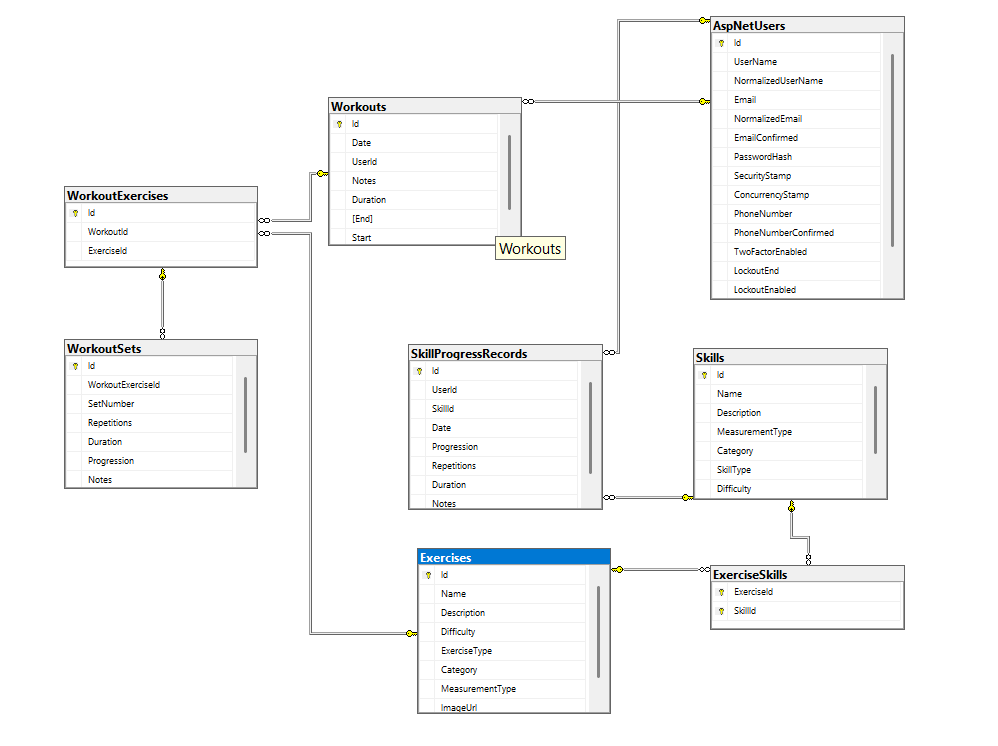
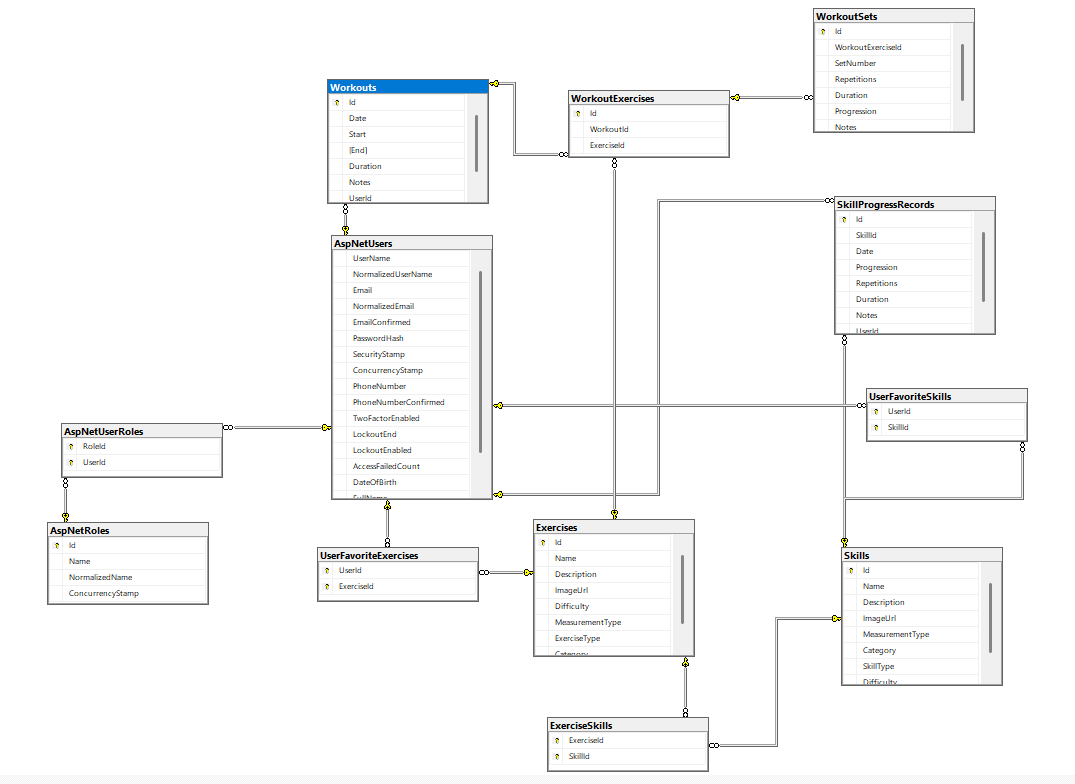
Uptaded README file

diff --git a/README.md b/README.md
@@ -1,147 +1,138 @@
-# 🚀 Calisthenics Skill Tracker
+🚀 Calisthenics Skill Tracker
 
-This app will help you keep progress of your workouts, discover new skills and exercises, and help you advance in the sport.
+This app helps you track your workouts, discover new skills and exercises, and progress in calisthenics through structured training and data tracking.
 
-.NET Version ASP.NET Core License
+📋 Table of Contents
+About the Project
+Technologies Used
+Prerequisites
+Getting Started
+Project Structure
+Features
+Usage
+Database Setup
+Configuration
+License
+Contact
+📖 About the Project
 
-## 📋 Table of Contents
+Calisthenics Skill Tracker is a web application built with ASP.NET Core MVC that allows users to track workouts, manage exercises and skills, and monitor their progression over time.
 
-*   [About the Project](#about-the-project)
-*   [Technologies Used](#technologies-used)
-*   [Prerequisites](#prerequisites)
-*   [Getting Started](#getting-started)
-*   [Project Structure](#project-structure)
-*   [Features](#features)
-*   [Usage](#usage)
-*   [Database Setup](#database-setup)
-*   [Configuration](#configuration)
-*   [Contributing](#contributing)
-*   [License](#license)
-*   [Contact](#contact)
+The application focuses on providing a structured and efficient way to improve in calisthenics by combining workout logging, skill tracking, and curated exercise discovery in one place.
 
-## 📖 About the Project
-
-**Calisthenics Skill Tracker** is a web application built with ASP.NET Core MVC that allows users to track their workouts, log exercises, and monitor skill progression. It provides an organized way to discover new exercises and skills while maintaining a record of personal achievements in calisthenics.
-
-This app is aimed at fitness enthusiasts who want to systematically advance in their sport and track their performance over time.
-
-## 🛠 Technologies Used
-
-| Technology | Version | Purpose |
-| --- | --- | --- |
-| ASP.NET Core MVC | 6.0 | Web framework |
-| Entity Framework Core | 6.0 | ORM / Database access |
-| SQL Server | - | Database |
-| Bootstrap | 5.x | Frontend styling |
-| Plain CSS | - | Custom styles |
-| Razor Views | - | Server-side HTML rendering |
-
-## ✅ Prerequisites
-
-*   [.NET SDK 6.0+](https://dotnet.microsoft.com/en-us/download/dotnet/6.0)
-*   [Visual Studio 2022](https://visualstudio.microsoft.com/) or [VS Code](https://code.visualstudio.com/)
-*   [SQL Server](https://www.microsoft.com/en-us/sql-server)
-*   [Git](https://git-scm.com/)
-
-## 🚀 Getting Started
-
-### 1\. Clone the repository
-
-git clone https://github.com/your-username/calisthenics-skill-tracker.git  
+🛠 Technologies Used
+Technology	Version	Purpose
+ASP.NET Core MVC	6.0	Web framework
+Entity Framework Core	6.0	ORM / Database access
+SQL Server	-	Database
+ASP.NET Identity	-	Authentication & roles
+Bootstrap	5.x	Frontend styling
+jQuery & AJAX	-	Dynamic UI interactions
+Razor Views	-	Server-side rendering
+✅ Prerequisites
+.NET SDK 6.0+
+Visual Studio 2022 or VS Code
+SQL Server
+Git
+🚀 Getting Started
+1. Clone the repository
+git clone https://github.com/your-username/calisthenics-skill-tracker.git
 cd calisthenics-skill-tracker
-
-### 2\. Restore dependencies
-
+2. Restore dependencies
 dotnet restore
-
-### 3\. Apply database migrations
-
+3. Apply database migrations
 dotnet ef database update
-
-### 4\. Run the application
-
+4. Run the application
 dotnet run
 
-App available at https://localhost:5001 or http://localhost:5000.
+App available at:
+https://localhost:5001
 
-## 📁 Project Structure
+http://localhost:5000
 
-CalisthenicsSkillTracker/  
-│  
-├── Controllers/ # MVC Controllers for Workouts, Exercises, Skills  
-├── Models/ # Domain models and ViewModels  
-├── Views/ # Razor Views (.cshtml)  
-├── Data/ # DbContext and migrations  
-├── Services/ # Business logic / service layer  
-├── wwwroot/ # Static files (CSS, JS, images)  
-├── appsettings.json # App configuration  
-└── Program.cs # App entry point and middleware setup
-
-## ✨ Features
-
-*   User registration and login (ASP.NET Identity)
-*   Log workouts with sets, reps, duration, and notes
-*   CRUD operations for Exercises and Skills
-*   Track user progress in different calisthenics skills
-*   Responsive UI with Bootstrap and custom CSS
-*   Conditional display of sets if values are null
-
-## 💻 Usage
-
-1.  Navigate to /Register to create an account.
-2.  Log in at /Login.
-3.  Browse/Add/Edit exercises and skills in the dashboard.
-4.  Log workouts via the /Workout/Log page.
-5.  Mark favorite exercises and skills for easy access.
-6.  View your progress and skill levels over time.
-
-## 🗄 Database Setup
+📁 Project Structure
+CalisthenicsSkillTracker/
+│
+├── Controllers/        # MVC Controllers
+├── Models/             # Domain models & ViewModels
+├── Views/              # Razor Views (.cshtml)
+├── Data/               # DbContext, configurations, migrations
+├── Services/           # Business logic layer
+├── wwwroot/            # Static files (CSS, JS, images)
+├── appsettings.json    # Configuration
+└── Program.cs          # Application entry point
+✨ Features
+🔐 User registration and login (ASP.NET Identity)
+🛡 Role-based access (Admin / Moderator / User)
+📋 CRUD operations for Exercises and Skills
+⭐ Favorite exercises and skills (AJAX-based)
+🔍 Search functionality
+🔽 Sorting (A–Z / Z–A)
+🎯 Filtering by difficulty
+📄 Keyset pagination for efficient navigation
+🏋 Workout management
+➕ Log workout sets (reps or duration dynamically)
+📈 Track skill progress over time
+🎨 Responsive UI with Bootstrap and custom CSS
+💻 Usage
+Register and log into your account
+Browse, create, edit, and delete exercises and skills
+Mark favorites for quick access
+Create workouts and log sets
+Track your skill progress over time
+🗄 Database Setup
 
 Connection string in appsettings.json:
 
-"ConnectionStrings": {  
-"DefaultConnection": "Server=(localdb)\\\\mssqllocaldb;Database=CalisthenicsSkillTrackerDb;Trusted\_Connection=True;"  
+"ConnectionStrings": {
+  "DefaultConnection": "Server=(localdb)\\mssqllocaldb;Database=CalisthenicsSkillTrackerDb;Trusted_Connection=True;"
 }
 
-To create and seed the database:
+Apply migrations:
 
-dotnet ef migrations add InitialCreate  
 dotnet ef database update
+🌱 Data Seeding
 
-### Database Diagram
+The database is automatically seeded with:
 
-| Database Diagram |
-| --- |
+11 Skills
+11 Exercises
+Predefined relationships between them
 
-![Database Diagram](docs/diagram.png)
+This provides realistic demo data when the app is first run.
 
-## ⚙ Configuration
+🧱 Database Diagram
+
+Add your database diagram screenshot here:
+
+![Database Diagram](diagram.png)
+⚙ Configuration
 
 Key settings in appsettings.json:
 
-{  
-"ConnectionStrings": {  
-"DefaultConnection": "your-connection-string-here"  
-},  
-"Logging": {  
-"LogLevel": {  
-"Default": "Information"  
-}  
-}  
+{
+  "ConnectionStrings": {
+    "DefaultConnection": "Server=(YourServerLocalServerName);Database=CalisthenicsSkillTracker2026;Trusted_Connection=True;Encrypt=False;"
+  },
+  "Logging": {
+    "LogLevel": {
+      "Default": "Information"
+    }
+  }
 }
 
-⚠ Never commit sensitive data. Use appsettings.Development.json or environment variables.
+⚠ Never commit sensitive data. Use environment variables or appsettings.Development.json.
 
-## 📄 License
+📄 License
 
-[Apache-2.0 license.](https://github.com/cvetkovalexander/CalisthenicsSkillTracker#Apache-2.0-1-ov-file)
+Apache-2.0 license.
 
-## 📬 Contact
+📬 Contact
 
-**Alexander Cvetkov**
-
+Alexander Cvetkov
 https://github.com/cvetkovalexander
 
-Project Link: https://github.com/cvetkovalexander/CalisthenicsSkillTracker
+Project Link:
+https://github.com/cvetkovalexander/CalisthenicsSkillTracker
 
-_Built as part of the \*\*ASP.NET Fundamentals\*\* course_
+Built as part of the SoftUni ASP.NET course 💻
